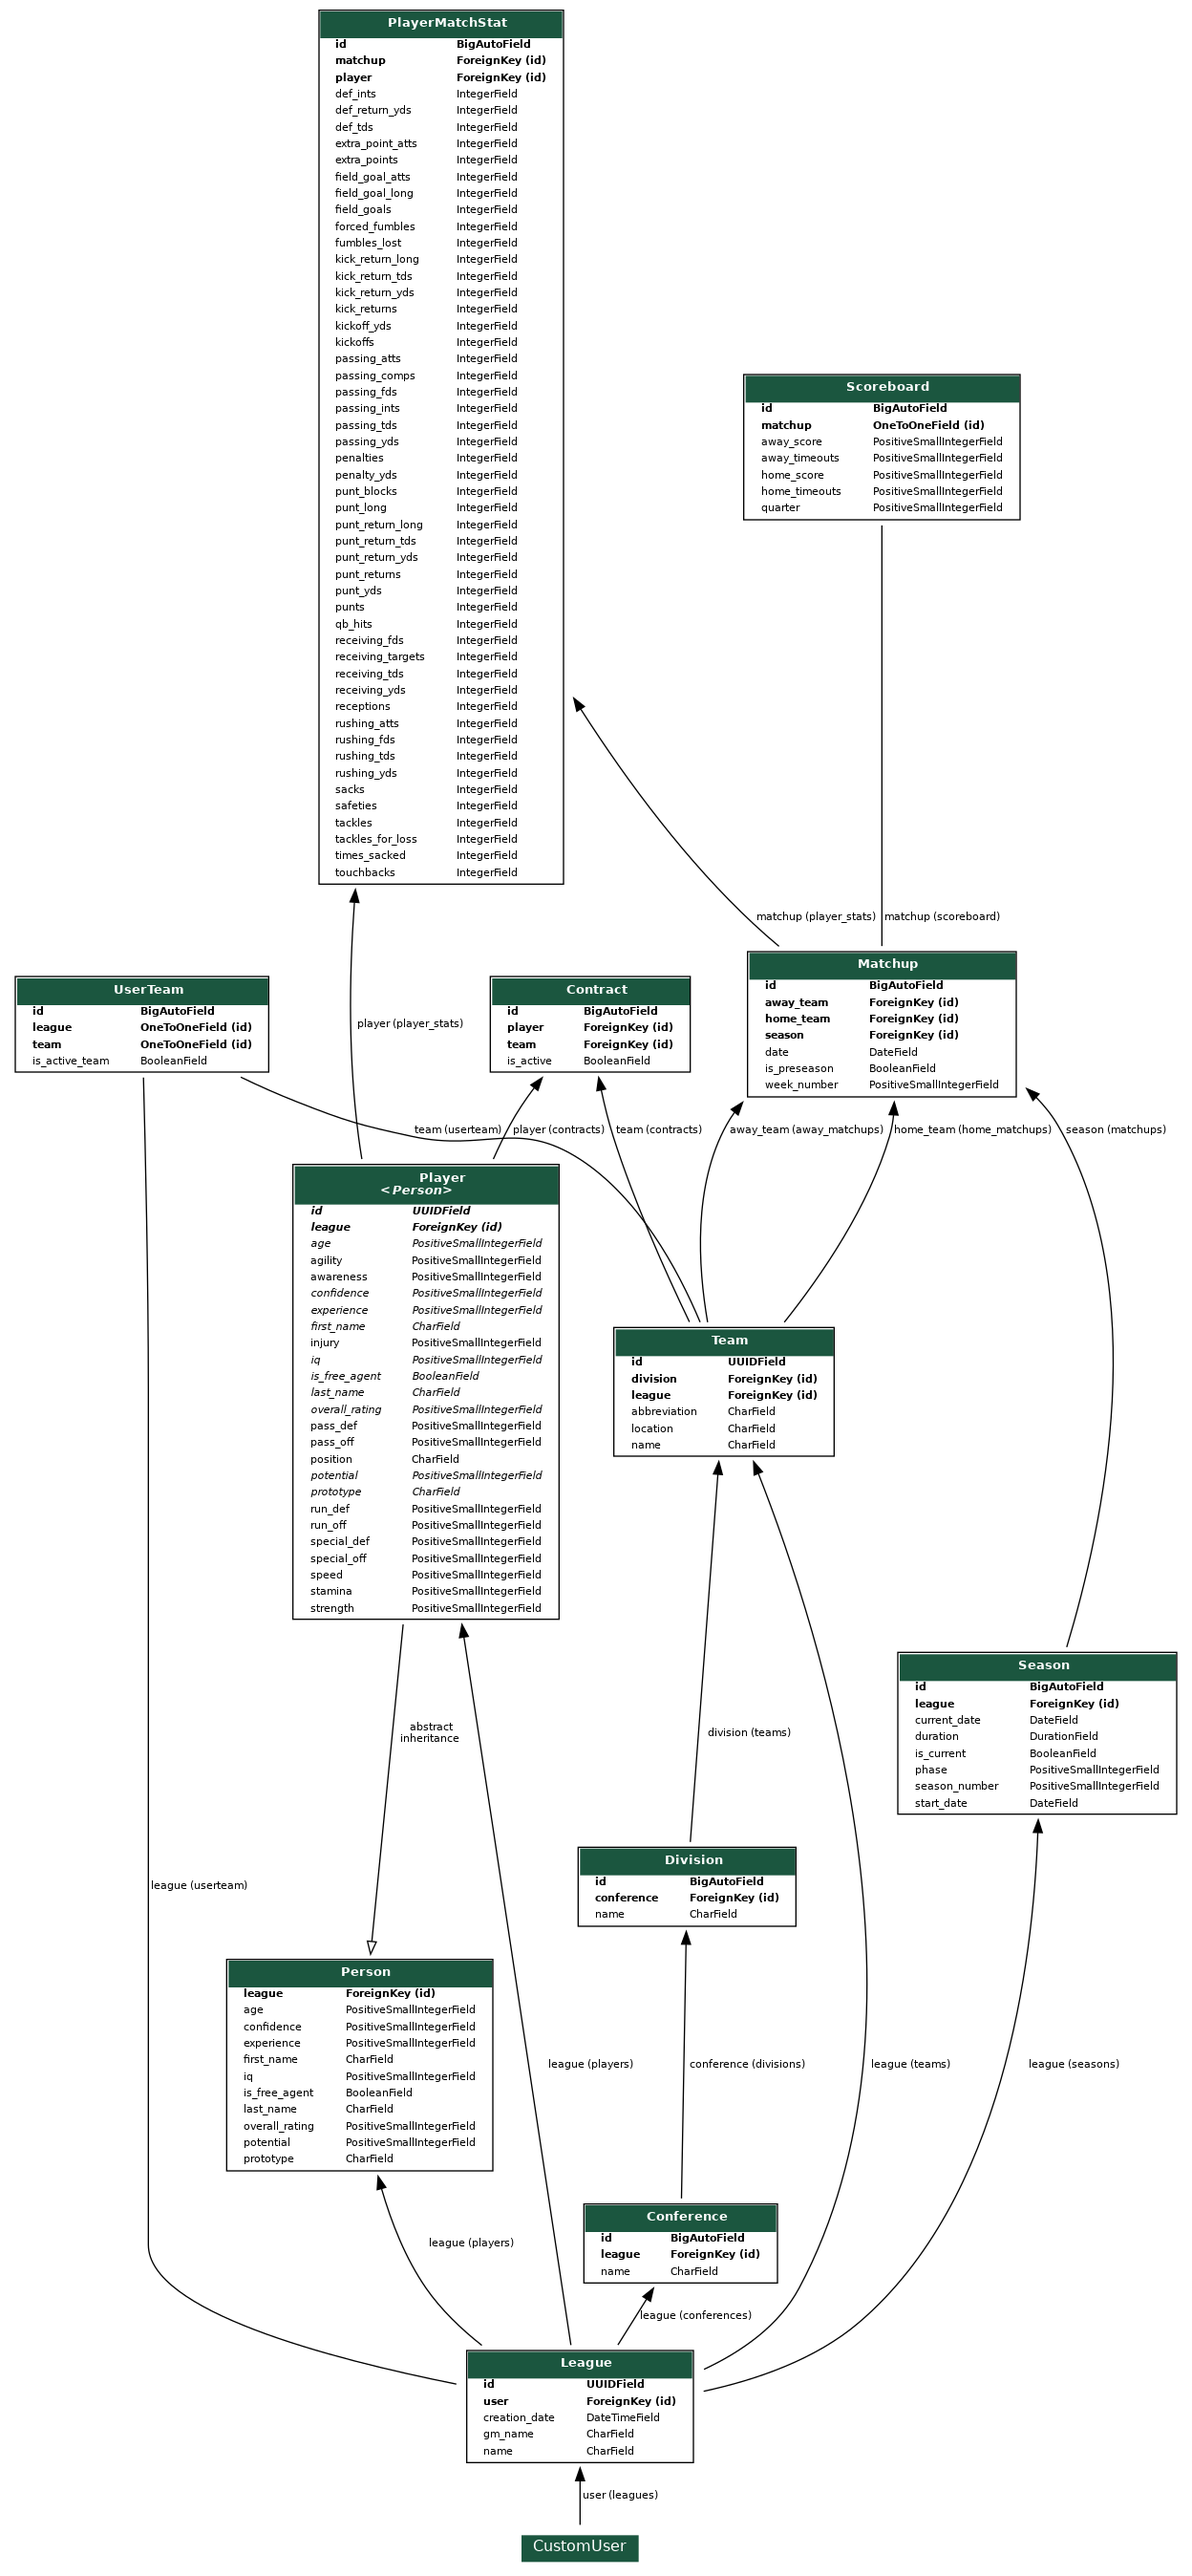
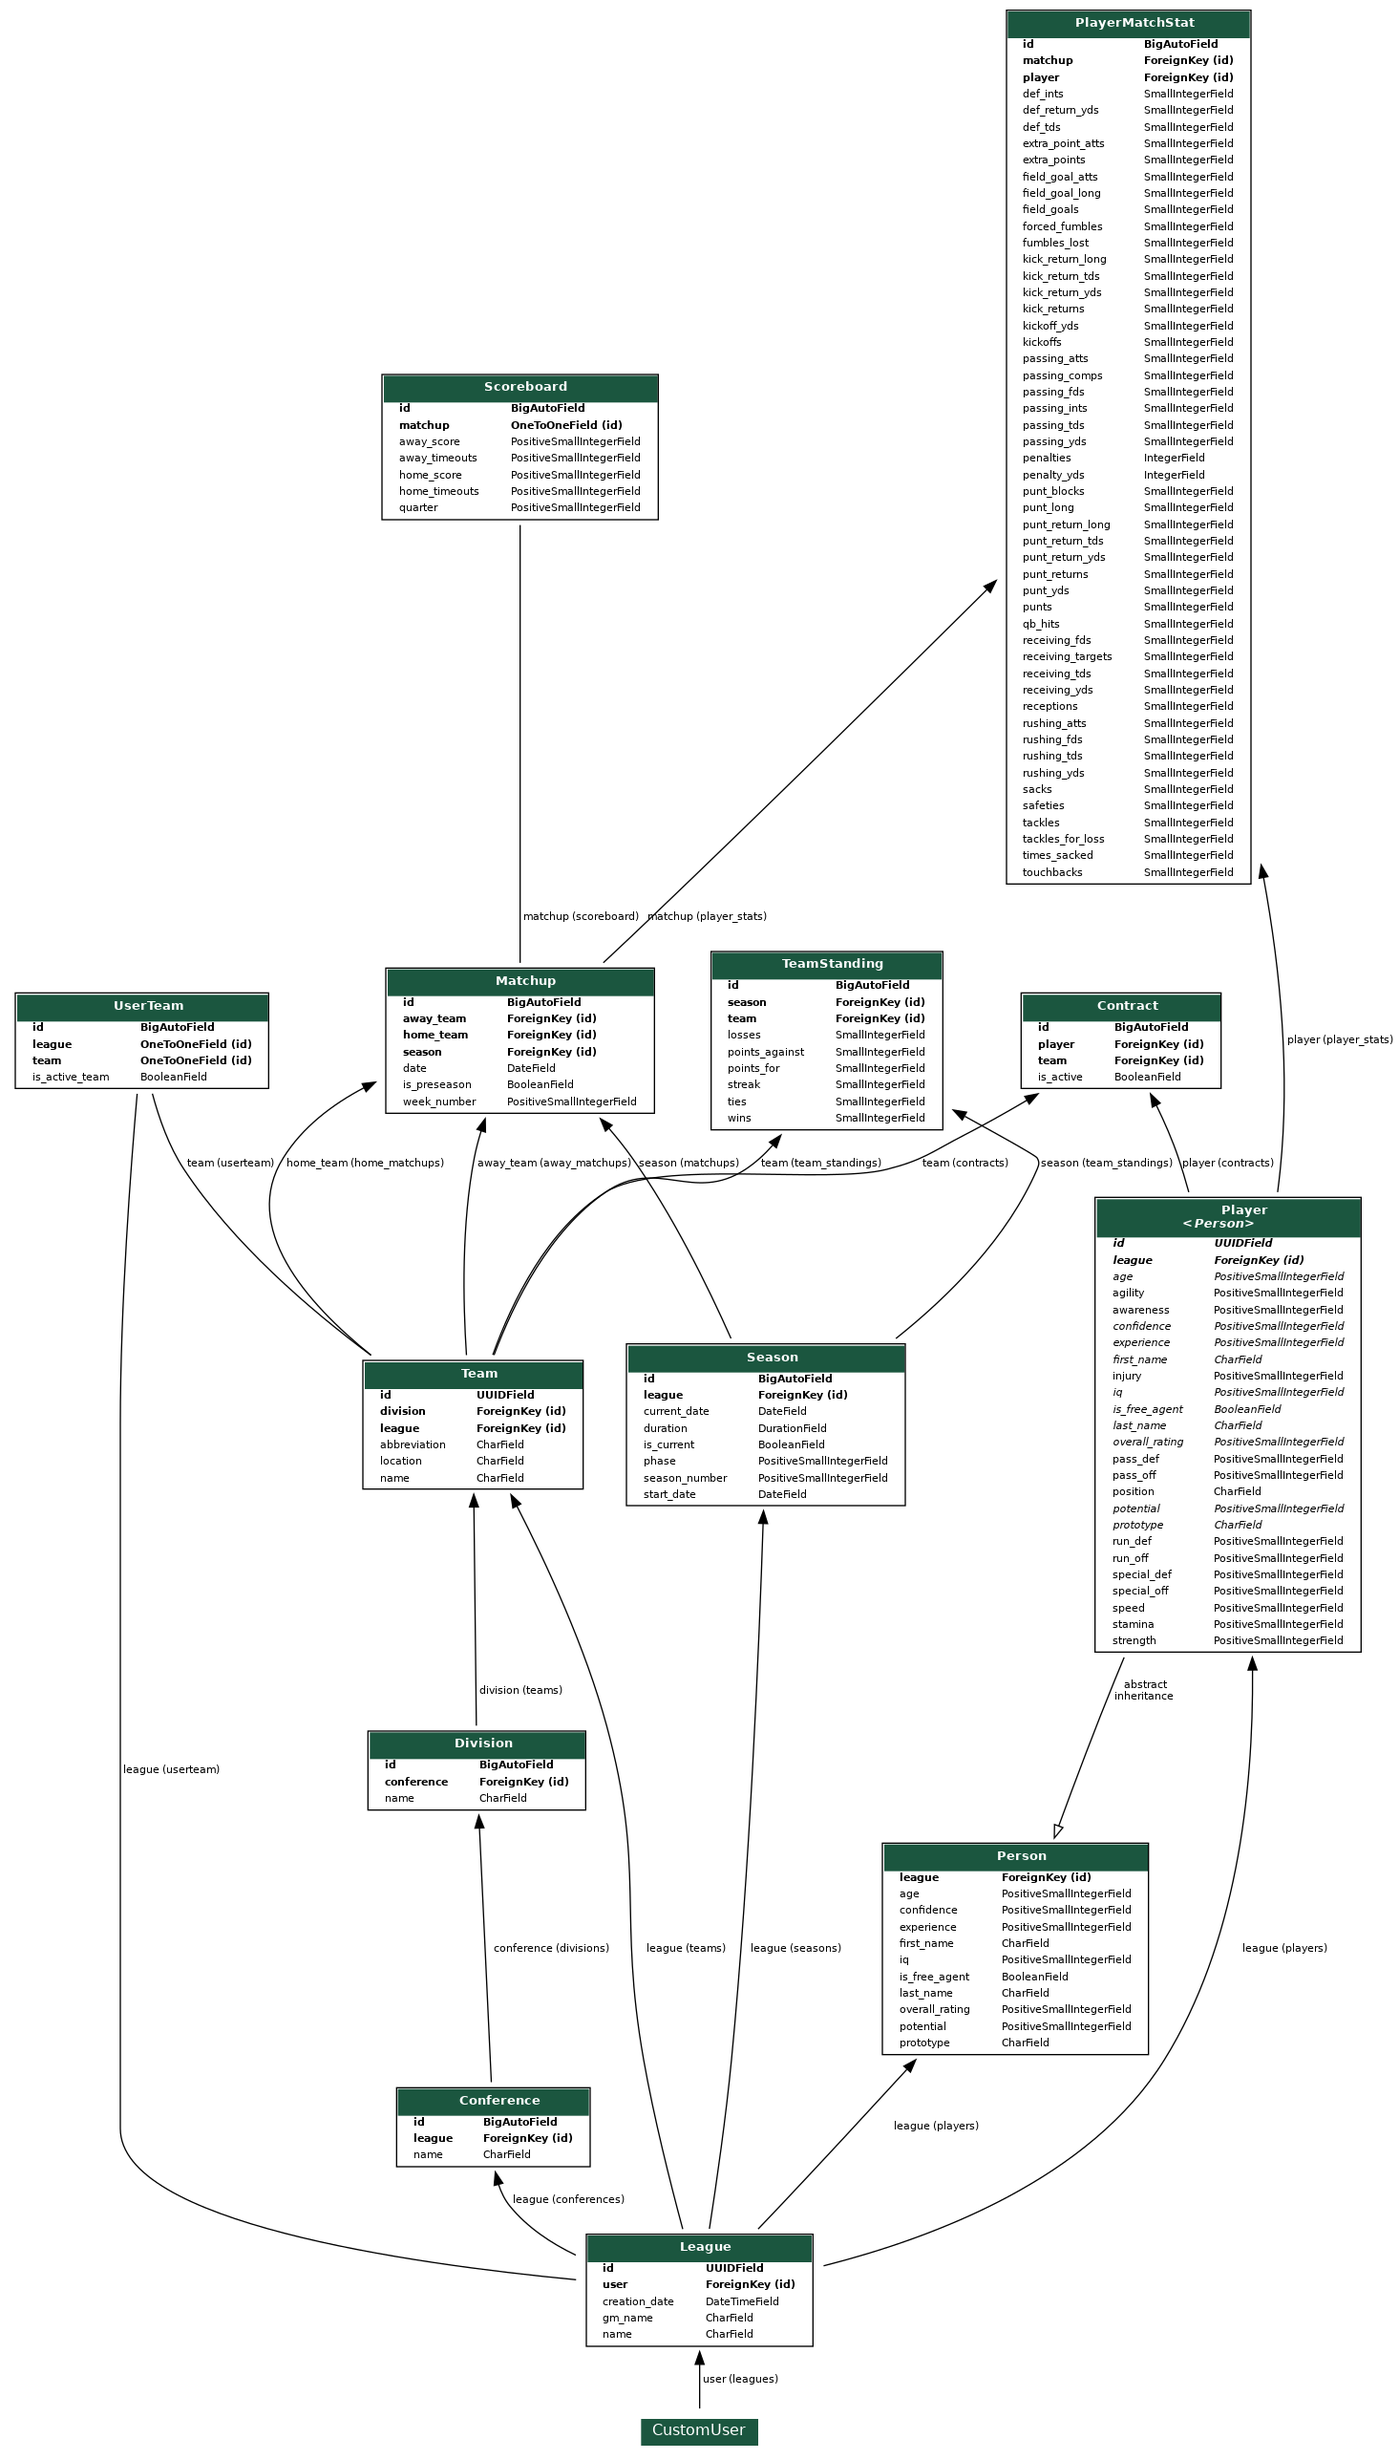
Create advance_days view with interim functionality working for first week. Add bootstrap func for messages framework

diff --git a/templates/leagues/_league_base.html b/templates/leagues/_league_base.html
@@ -23,7 +23,7 @@
               Simulate
             </button>
             <ul class="dropdown-menu" aria-labelledby="dropdownMenuButton1">
-              <li><a class="dropdown-item" href="#">Progress 1 Week</a></li>
+              <li><a class="dropdown-item" href="{% url 'advance_days' league.pk 7|urlencode %}">Progress 1 Week</a></li>
             </ul>
           </div>
         </ul>
@@ -32,6 +32,13 @@
   {% endblock header %}
   <body>
     <div class="container-fluid">
+      {% if messages %}
+        <div class="messages">
+            {% for message in messages %}
+            <p{% if message.tags %} class="alert {{ message.tags }}" role="alert"{% endif %}>{{ message }}</p>
+            {% endfor %}
+        </div>
+      {% endif %}
       <div class="row">
         {% if user.is_authenticated %}
           {% block sidebar %}

diff --git a/templates/_base.html b/templates/_base.html
@@ -20,7 +20,7 @@
         </a>
 
         <ul class="nav col-12 col-lg-auto me-lg-auto mb-2 justify-content-center mb-md-0">
-          <li><a href="/" class="nav-link px-2 text-secondary">Home</a></li>
+          <li><a href="/" class="nav-link px-2 text-white">Home</a></li>
           <li><a href="{% url 'about' %}" class="nav-link px-2 text-white">About</a></li>
           <li><a href="{% url 'contact' %}" class="nav-link px-2 text-white">Contact</a></li>
         </ul>

diff --git a/leagues/views.py b/leagues/views.py
@@ -1,3 +1,5 @@
+import datetime
+
 from django.http import HttpResponseRedirect
 from django.urls import reverse, reverse_lazy
 from django.shortcuts import get_object_or_404, render
@@ -6,9 +8,10 @@ from django.views.generic.edit import CreateView, UpdateView, DeleteView
 from django.contrib.auth.mixins import (
     LoginRequiredMixin, UserPassesTestMixin
 )
-from .models import League, Player, Team, UserTeam
-
 from django.http import HttpResponse
+from django.contrib import messages
+
+from .models import League, Player, Team, UserTeam, Season, Matchup, TeamStanding
 
 
 # Custom Mixins
@@ -199,5 +202,62 @@ class PlayerDetailView(LeagueOwnerCanViewTeamsMixin, DetailView):
         return context
 
 
-def simulate(request, days):
-    pass
+def advance_days(request, league, days):
+    if request.method == 'GET':
+        league = get_object_or_404(League, pk=league)
+        season = get_object_or_404(Season, league=league, is_current=True)
+        current_week = season.week_number
+        previous_week = season.week_number - 1
+        matchups = Matchup.objects.filter(
+            season=season, week_number=current_week)
+
+        # Get scores and results for this weeks matchup
+        for matchup in matchups:
+            scores = matchup.scoreboard.get_score()
+            winner = matchup.scoreboard.get_winner()
+
+            # Need week number on TeamStanding?
+            # if previous_week > 0:
+            #     home_previous_standing = TeamStanding.objects.get(
+            #         team=matchup.home_team, season=season)
+            #     away_previous_standing = TeamStanding.objects.get(
+            #         team=matchup.away_team, season=season)
+
+            if winner == 'Tie':
+                TeamStanding.objects.create(
+                    team=matchup.home_team, season=season, ties=1,
+                    points_for=matchup.scoreboard.home_score,
+                    points_against=matchup.scoreboard.away_score)
+                TeamStanding.objects.create(
+                    team=matchup.away_team, season=season, ties=1,
+                    points_for=matchup.scoreboard.away_score,
+                    points_against=matchup.scoreboard.home_score)
+            elif winner == matchup.home_team:
+                TeamStanding.objects.create(
+                    team=matchup.home_team, season=season, wins=1, streak=1,
+                    points_for=matchup.scoreboard.home_score,
+                    points_against=matchup.scoreboard.away_score)
+                TeamStanding.objects.create(
+                    team=matchup.away_team, season=season, losses=1, streak=-1,
+                    points_for=matchup.scoreboard.away_score,
+                    points_against=matchup.scoreboard.home_score)
+            else:
+                TeamStanding.objects.create(
+                    team=matchup.away_team, season=season, wins=1, streak=1,
+                    points_for=matchup.scoreboard.away_score,
+                    points_against=matchup.scoreboard.home_score)
+                TeamStanding.objects.create(
+                    team=matchup.home_team, season=season, losses=1, streak=-1,
+                    points_for=matchup.scoreboard.home_score,
+                    points_against=matchup.scoreboard.away_score)
+
+        # Progress season by X days and save instance
+        season.current_date += datetime.timedelta(days=days)
+        if days == 7:
+            season.week_number += 1
+        season.save()
+
+        # Success message
+        messages.add_message(request, messages.SUCCESS, 'Advanced one week.')
+
+    return HttpResponseRedirect(request.META.get('HTTP_REFERER', '/'))

diff --git a/leagues/models.py b/leagues/models.py
@@ -10,6 +10,7 @@ from .utils.utils import (
     read_team_info_from_csv,
     generate_player_attributes,
 )
+from simulation.models import Scoreboard
 
 
 class League(models.Model):
@@ -259,6 +260,7 @@ class Season(models.Model):
     duration = models.DurationField(default=datetime.timedelta(weeks=52))
     phase = models.PositiveSmallIntegerField(default=6, choices=PHASES)
     season_number = models.PositiveSmallIntegerField(default=1)
+    week_number = models.PositiveSmallIntegerField(default=1)
     is_current = models.BooleanField(default=True)
 
     def __str__(self):
@@ -282,12 +284,15 @@ class Season(models.Model):
             progress_week = datetime.timedelta(days=7)
             for week_num in range(1, len(matchups) + 1):
                 for matchup in matchups[week_num - 1]:
-                    Matchup.objects.create(
+                    new_matchup = Matchup.objects.create(
                         home_team=matchup[0],
                         away_team=matchup[1],
                         season=self,
                         week_number=week_num,
                         date=date
+                    )
+                    Scoreboard.objects.create(
+                        matchup=new_matchup
                     )
                 date += progress_week
 

diff --git a/simulation/models.py b/simulation/models.py
@@ -2,6 +2,7 @@ from django.db import models
 from django.db import models
 from django.core.validators import MaxValueValidator, MinValueValidator
 import datetime
+import random
 
 
 class Scoreboard(models.Model):
@@ -29,12 +30,17 @@ class Scoreboard(models.Model):
     # field_position = models.PositiveSmallIntegerField(validators=[MinValueValidator(1), MaxValueValidator(99)])
 
     def __str__(self):
-        return f'Scoreboard for Match {str(self.matchup.pk)} Season {str(self.matchup.season.pk)} - {self.matchup.season.league.name}'
+        return f'Scoreboard for Match (week {str(self.matchup.week_number)}) Season {str(self.matchup.season.season_number)} - {self.matchup.season.league.name}'
+
+    def get_score(self):
+        self.home_score = random.randint(0, 50)
+        self.away_score = random.randint(0, 50)
+        self.save()
 
     def get_winner(self):
-        if home_score > away_score:
+        if self.home_score > self.away_score:
             return self.matchup.home_team
-        elif away_score > home_score:
+        elif self.away_score > self.home_score:
             return self.matchup.away_team
         else:
             return "Tie"

diff --git a/leagues/admin.py b/leagues/admin.py
@@ -3,7 +3,8 @@ from django.contrib import admin
 from .models import (
     League, Conference, Division,
     UserTeam, Team, Player, Contract,
-    Season, Matchup, PlayerMatchStat
+    Season, Matchup, PlayerMatchStat,
+    TeamStanding,
 )
 
 
@@ -58,9 +59,11 @@ class PlayerAdmin(admin.ModelAdmin):
     inlines = [
         PlayerInline
     ]
-    list_display = ('__str__', 'position', 'prototype', 'overall_rating', 'league')
+    list_display = ('__str__', 'position', 'prototype',
+                    'overall_rating', 'league')
     list_filter = ('team__league__name',)
     search_fields = ('first_name',)
+
 
 admin.site.register(League, LeagueAdmin)
 admin.site.register(Conference, ConferenceAdmin)
@@ -72,3 +75,4 @@ admin.site.register(Contract)
 admin.site.register(Season)
 admin.site.register(Matchup)
 admin.site.register(PlayerMatchStat)
+admin.site.register(TeamStanding)

diff --git a/config/settings.py b/config/settings.py
@@ -1,5 +1,6 @@
 from pathlib import Path
 from environs import Env
+from django.contrib.messages import constants as messages
 
 env = Env()
 env.read_env()
@@ -100,7 +101,7 @@ WSGI_APPLICATION = 'config.wsgi.application'
 
 DATABASES = {
     "default": env.dj_db_url("DATABASE_URL",
-    default="postgres://postgres@db/postgres")
+                             default="postgres://postgres@db/postgres")
 }
 
 
@@ -156,3 +157,12 @@ DEFAULT_AUTO_FIELD = 'django.db.models.BigAutoField'
 AUTH_USER_MODEL = 'accounts.CustomUser'
 
 DEFAULT_FROM_EMAIL = 'admin@djangobookstore.com'
+
+# Django Messages
+MESSAGE_TAGS = {
+    messages.DEBUG: 'alert-info',
+    messages.INFO: 'alert-info',
+    messages.SUCCESS: 'alert-success',
+    messages.WARNING: 'alert-warning',
+    messages.ERROR: 'alert-danger',
+}

diff --git a/leagues/migrations/0030_season_week_number.py b/leagues/migrations/0030_season_week_number.py
@@ -1,0 +1,18 @@
+# Generated by Django 3.2.6 on 2021-08-29 22:57
+
+from django.db import migrations, models
+
+
+class Migration(migrations.Migration):
+
+    dependencies = [
+        ('leagues', '0029_auto_20210829_1755'),
+    ]
+
+    operations = [
+        migrations.AddField(
+            model_name='season',
+            name='week_number',
+            field=models.PositiveSmallIntegerField(default=1),
+        ),
+    ]

diff --git a/leagues/urls.py b/leagues/urls.py
@@ -20,4 +20,6 @@ urlpatterns = [
          views.DepthChartView.as_view(), name='depth_chart_pos'),
     path('<uuid:league>/teams/<uuid:team>/roster/<uuid:pk>/',
          views.PlayerDetailView.as_view(), name='player_detail'),
+    path('<uuid:league>/advance-days/<int:days>/',
+         views.advance_days, name='advance_days'),
 ]
